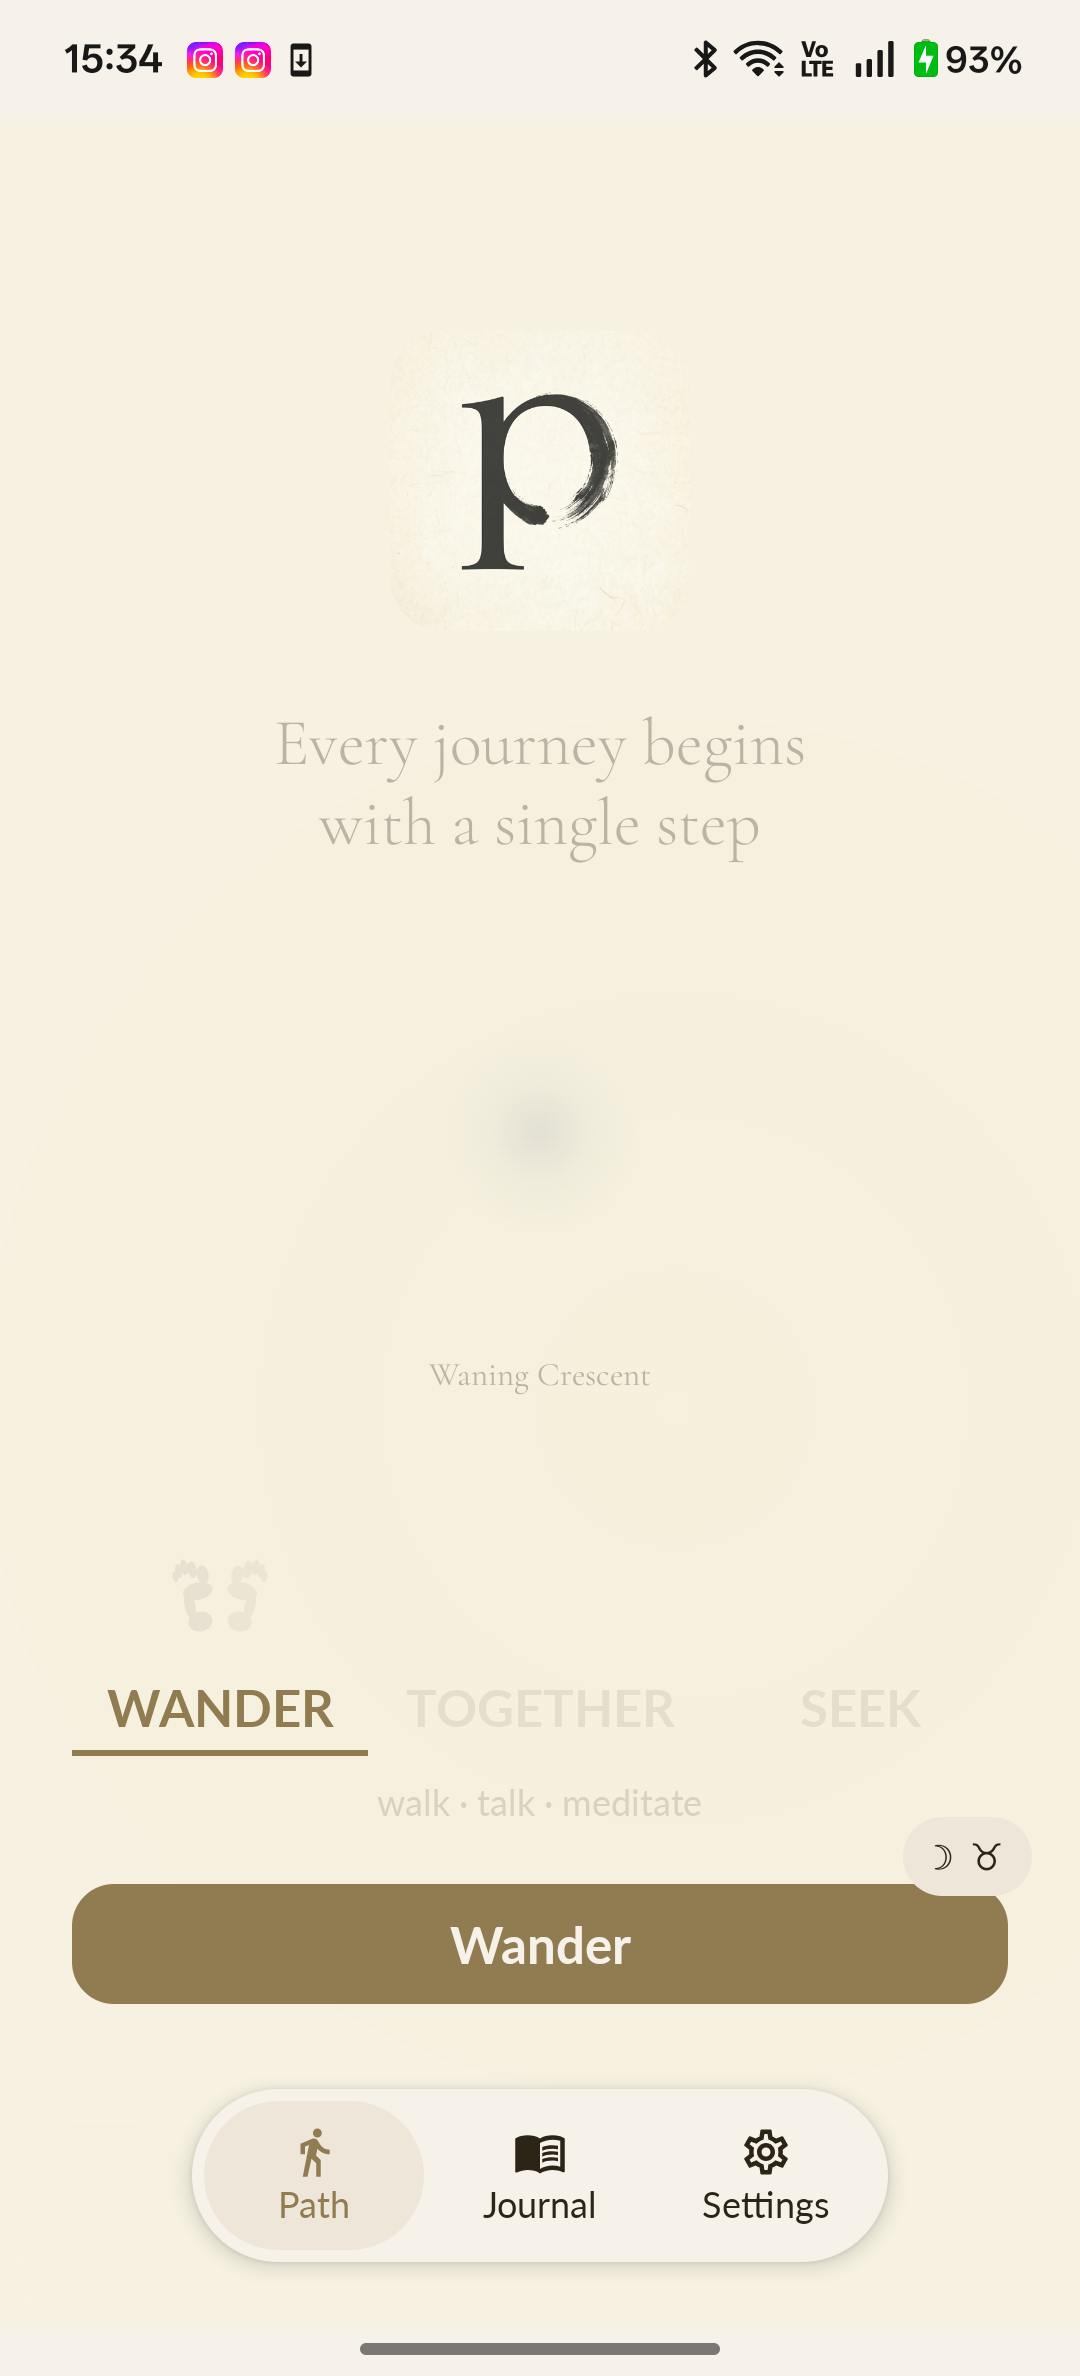
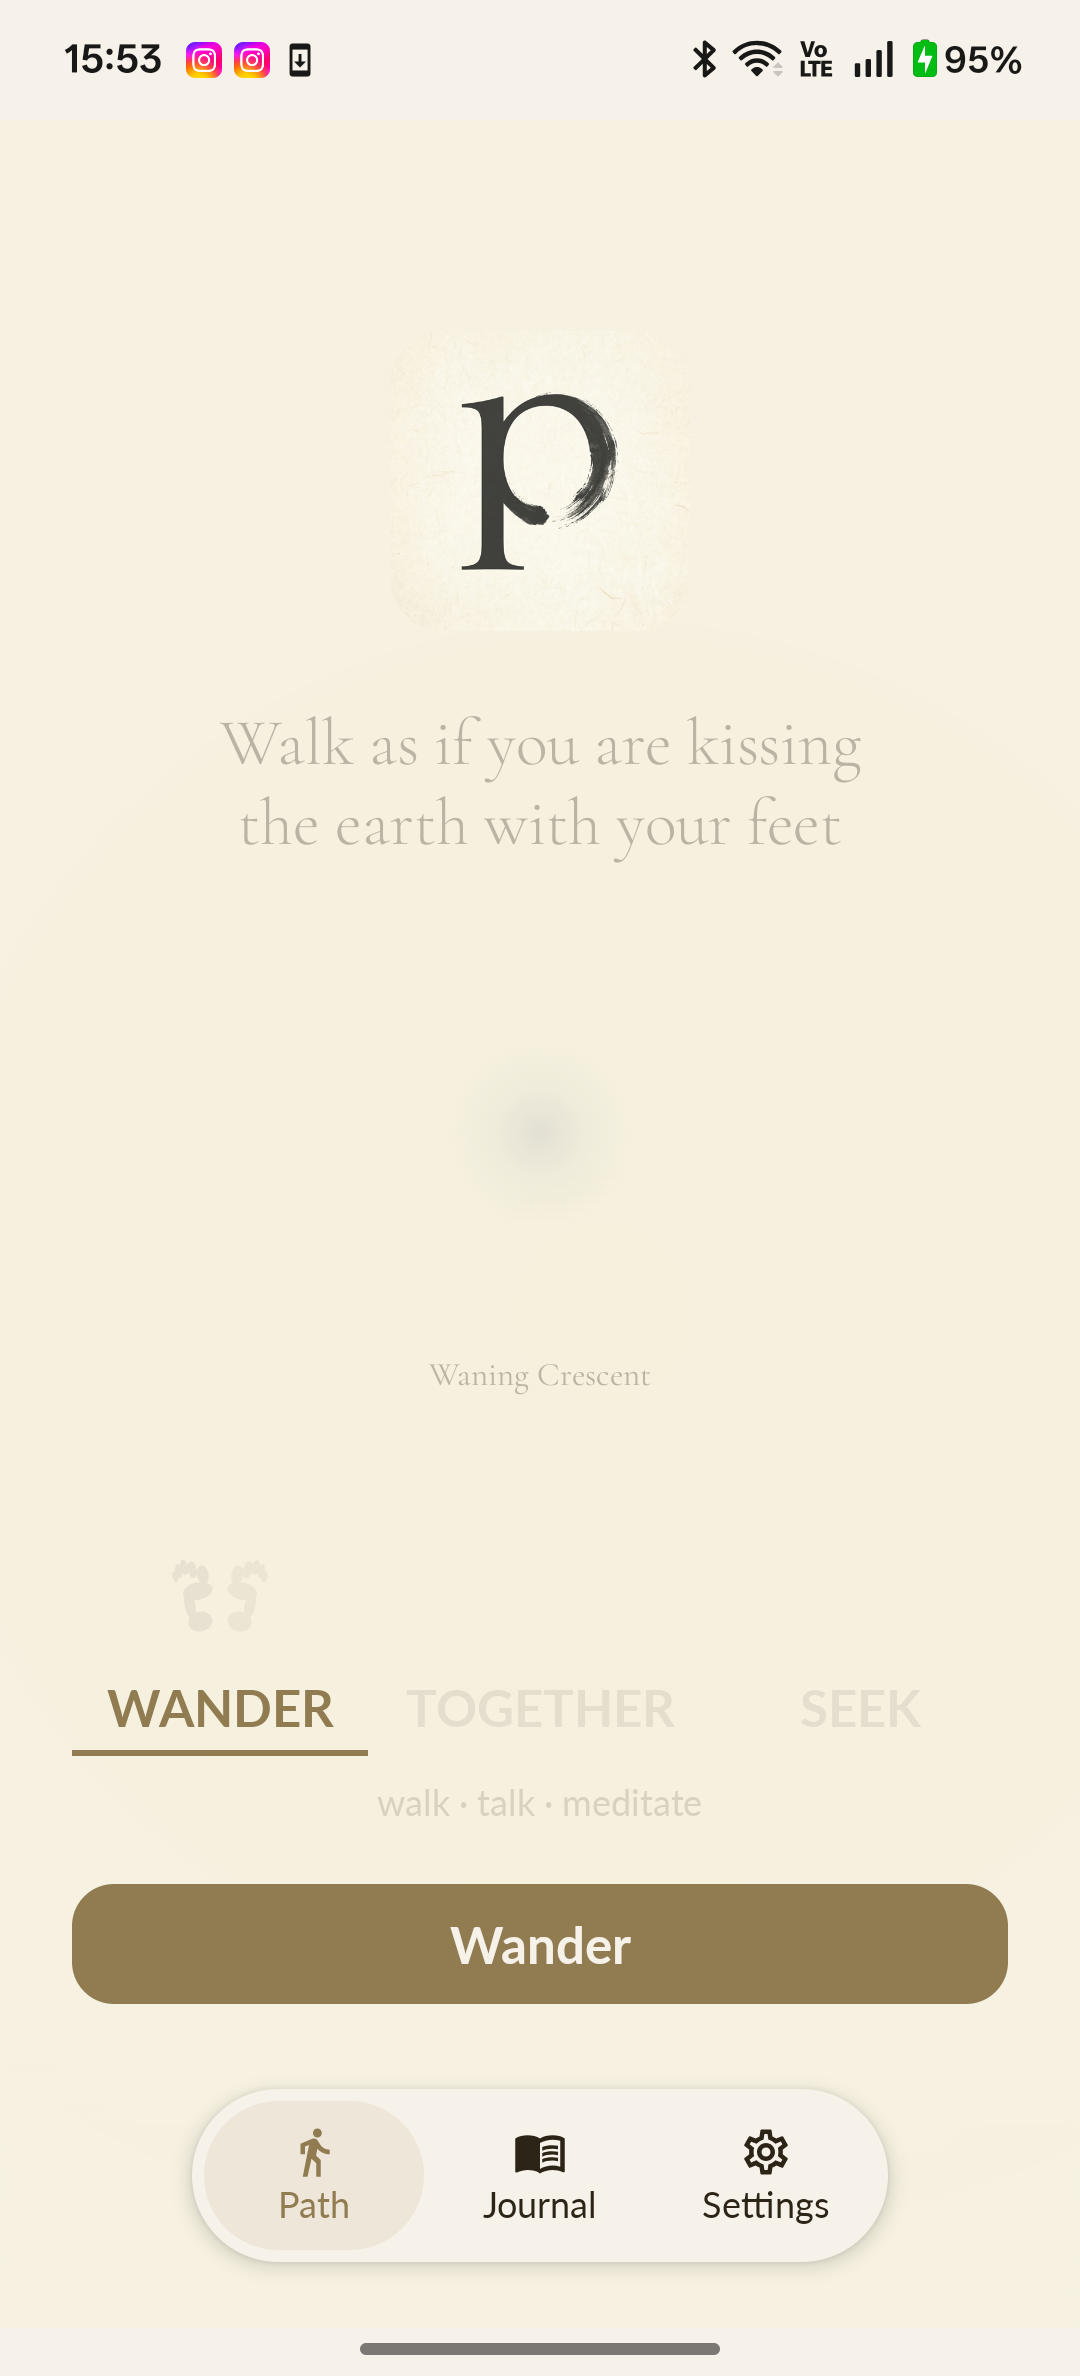
feat(path): port iOS staggered entrance to WalkStartScreen
Second blinded parity finding on path.wander.idle (post pill-fix
re-review): Android showed logo/quote/moon simultaneously; iOS
runEntrance staggers them (logo immediate, quote +400ms, moon +600ms,
each a 500ms decelerate fade; logo also scales 0.95→1.0). Verdict:
close-the-gap (unambiguous parity port — no user fork needed).

Mirrors WelcomeScreen.kt convention (animateFloatAsState +
graphicsLayer{alpha}); reduceMotion shows all three immediately.
Compiles; WalkStartScreenTest green. Ledger detail updated.

diff --git a/app/src/main/java/org/walktalkmeditate/pilgrim/ui/path/WalkStartScreen.kt b/app/src/main/java/org/walktalkmeditate/pilgrim/ui/path/WalkStartScreen.kt
@@ -6,6 +6,9 @@ import android.content.Context
 import androidx.activity.compose.BackHandler
 import androidx.annotation.StringRes
 import androidx.compose.animation.AnimatedContent
+import androidx.compose.animation.core.LinearOutSlowInEasing
+import androidx.compose.animation.core.animateFloatAsState
+import androidx.compose.animation.core.tween
 import androidx.compose.foundation.background
 import androidx.compose.foundation.clickable
 import androidx.compose.foundation.interaction.MutableInteractionSource
@@ -31,6 +34,7 @@ import androidx.compose.runtime.setValue
 import androidx.compose.ui.Alignment
 import androidx.compose.ui.Modifier
 import androidx.compose.ui.graphics.Color
+import androidx.compose.ui.graphics.graphicsLayer
 import androidx.compose.ui.hapticfeedback.HapticFeedbackType
 import androidx.compose.ui.platform.LocalConfiguration
 import androidx.compose.ui.platform.LocalContext
@@ -170,6 +174,36 @@ fun WalkStartScreen(
     val isLargeText = LocalConfiguration.current.fontScale > 1.3f
     val logoSize: Dp = if (isLargeText) 60.dp else 100.dp
 
+    // Staggered entrance: logo (immediate) → quote (+400ms) → moon
+    // (+600ms), each a 500ms decelerate fade; logo also scales 0.95→1.0.
+    // reduceMotion shows all three at once (defaults true → no animation).
+    val showLogo = remember { mutableStateOf(reduceMotion) }
+    val showQuote = remember { mutableStateOf(reduceMotion) }
+    val showMoon = remember { mutableStateOf(reduceMotion) }
+    LaunchedEffect(reduceMotion) {
+        if (reduceMotion) return@LaunchedEffect
+        showLogo.value = true
+        kotlinx.coroutines.delay(400)
+        showQuote.value = true
+        kotlinx.coroutines.delay(200)
+        showMoon.value = true
+    }
+    val logoAnim by animateFloatAsState(
+        targetValue = if (showLogo.value) 1f else 0f,
+        animationSpec = tween(durationMillis = 500, easing = LinearOutSlowInEasing),
+        label = "entrance-logo",
+    )
+    val quoteAnim by animateFloatAsState(
+        targetValue = if (showQuote.value) 1f else 0f,
+        animationSpec = tween(durationMillis = 500, easing = LinearOutSlowInEasing),
+        label = "entrance-quote",
+    )
+    val moonAnim by animateFloatAsState(
+        targetValue = if (showMoon.value) 1f else 0f,
+        animationSpec = tween(durationMillis = 500, easing = LinearOutSlowInEasing),
+        label = "entrance-moon",
+    )
+
     Box(
         modifier = Modifier
             .fillMaxSize()
@@ -216,7 +250,16 @@ fun WalkStartScreen(
                 horizontalAlignment = Alignment.CenterHorizontally,
                 verticalArrangement = Arrangement.Center,
             ) {
-                BreathingLogo(size = logoSize, pulseActive = pulseActive)
+                Box(
+                    modifier = Modifier.graphicsLayer {
+                        alpha = logoAnim
+                        val s = 0.95f + 0.05f * logoAnim
+                        scaleX = s
+                        scaleY = s
+                    },
+                ) {
+                    BreathingLogo(size = logoSize, pulseActive = pulseActive)
+                }
                 Spacer(Modifier.height(PilgrimSpacing.big))
                 Text(
                     text = currentQuote,
@@ -229,9 +272,14 @@ fun WalkStartScreen(
                     color = pilgrimColors.fog,
                     textAlign = TextAlign.Center,
                     maxLines = 4,
+                    modifier = Modifier.graphicsLayer { alpha = quoteAnim },
                 )
                 Spacer(Modifier.height(PilgrimSpacing.big))
-                MoonPhaseGlyph(phase = lunarPhase, size = 44.dp)
+                MoonPhaseGlyph(
+                    phase = lunarPhase,
+                    size = 44.dp,
+                    modifier = Modifier.graphicsLayer { alpha = moonAnim },
+                )
             }
             ModeSelector(
                 selectedMode = selectedMode,

diff --git a/docs/parity/2026-05-15-parity-ledger.md b/docs/parity/2026-05-15-parity-ledger.md
@@ -149,6 +149,8 @@ Per-mode blinded-review results for rows not yet fully verified (a row's table-c
   - evidence: `evidence/path.wander.idle__L__ios.png`, `evidence/path.wander.idle__L__android.png`; motion: `evidence/motion/path.wander.idle__L__{ios,android}.frames/` (iOS also `.mov`; Android frame-sampled — on-device `screenrecord` is OEM-blocked on the OnePlus, U6 frame-sample method used)
   - observed-diff: Android renders an EXTRA bottom-end celestial moon pill (`WalkVignette`, BottomEnd) on the pre-walk screen that iOS `WalkStartView` does not have — iOS `CelestialVignetteView` is used only in `ActiveWalkView.swift:450` (active walk), never pre-walk (capturer verified iOS host `MainTabView.swift` does not wrap it either; behavior slice was complete).
   - **U7 disposition (2026-05-15, A5/user):** **close-the-gap → match iOS.** Pre-walk `WalkVignette` removed from `ui/path/WalkStartScreen.kt`; dead `WalkViewModel.preWalkCelestialSnapshot()` deleted. Celestial pill remains on active-walk only (iOS `ActiveWalkView.swift:450` parity). Compiles clean. **Evidence re-capture pending** — Android device still runs the pre-fix build; the Light verdict stays `close-the-gap (resolved-in-code, re-capture+re-review pending)` until a post-fix Android shot is paired and re-reviewed. Per protocol a code fix never auto-promotes to `match` without fresh evidence.
+  - **L re-review #2 (post-pill-fix, fresh blinded reviewer):** `close-the-gap` — Android lacked iOS `runEntrance` staggered fade (logo→quote→moon, 0.5s decelerate, +0.4s/+0.6s delays; logo also scales 0.95→1.0). **Resolved in code:** added staggered entrance + reduceMotion-immediate path to `WalkStartScreen.kt` (mirrors `WelcomeScreen.kt` convention: `animateFloatAsState` + `graphicsLayer{alpha}`). Compiles + `WalkStartScreenTest` green.
+  - **L net state:** `close-the-gap (resolved-in-code ×2: pre-walk pill removed + entrance stagger added). Final recapture+re-review deferred to a consolidation pass — entrance is a one-shot on-appear; capturing it needs burst timed to navigation.`
   - D (Dark), C (Constellation), reduce-motion: NOT yet captured → row stays partial.
 
 ## Gate summary (computed at U7)
